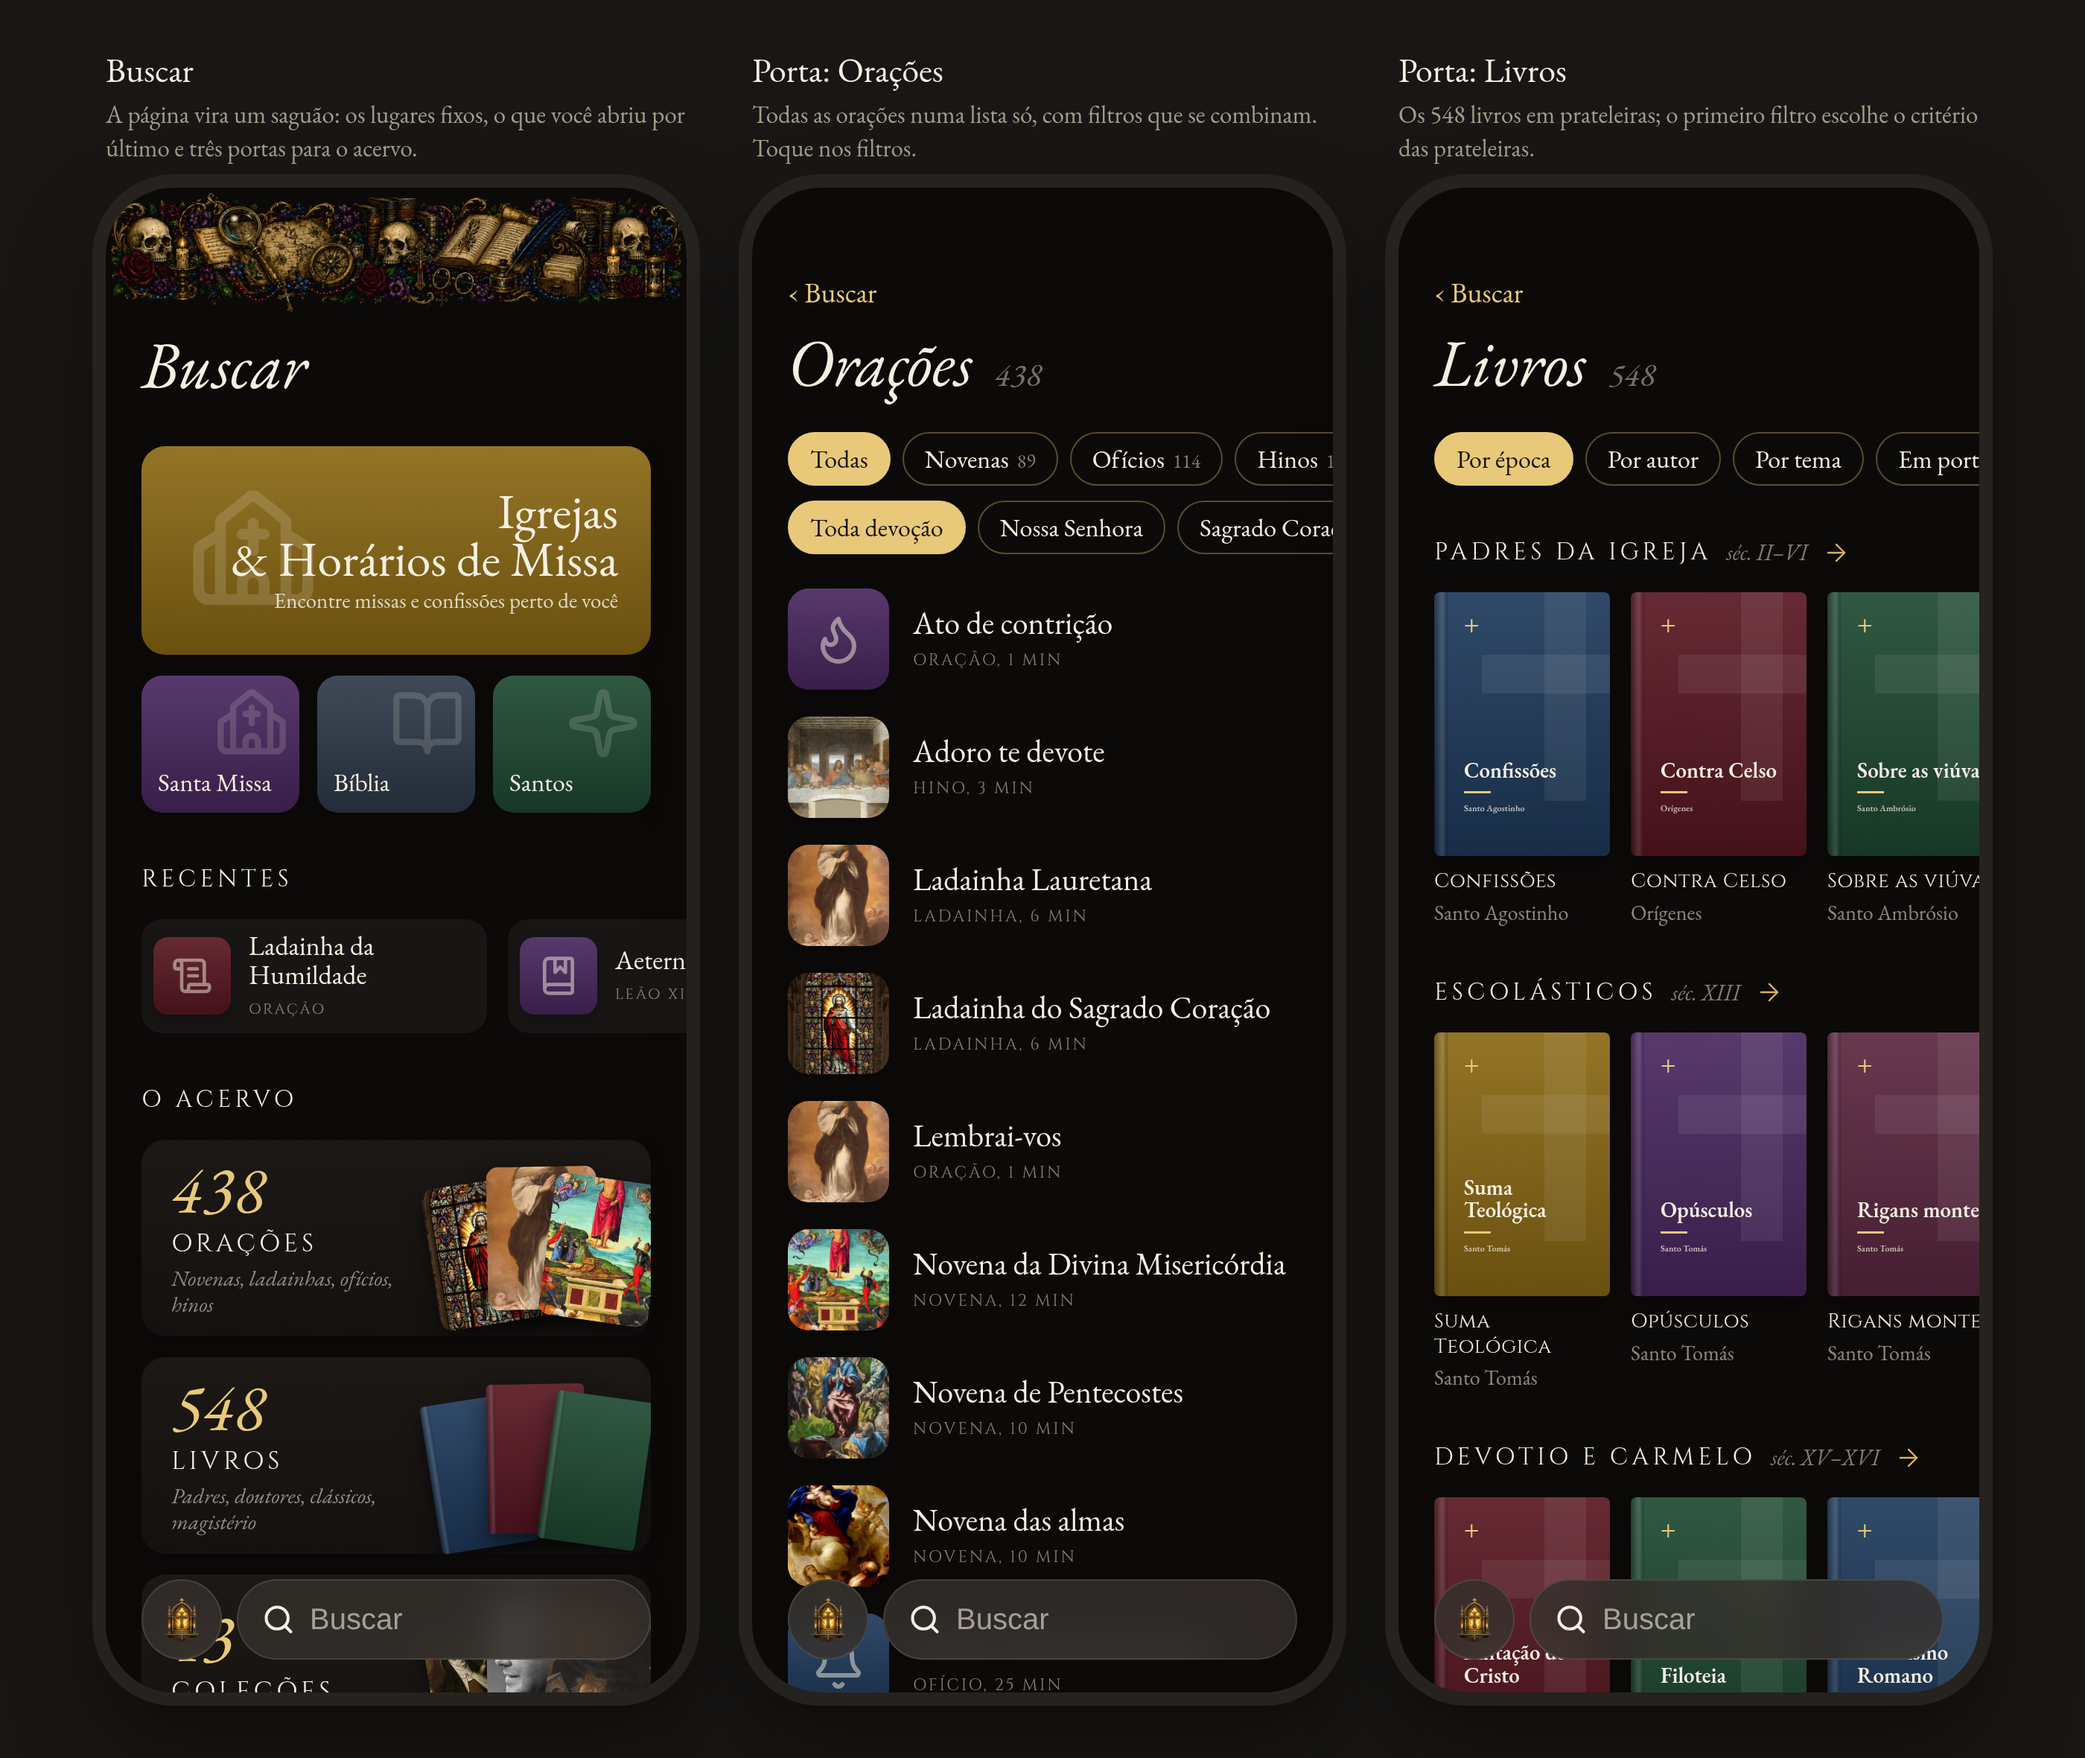
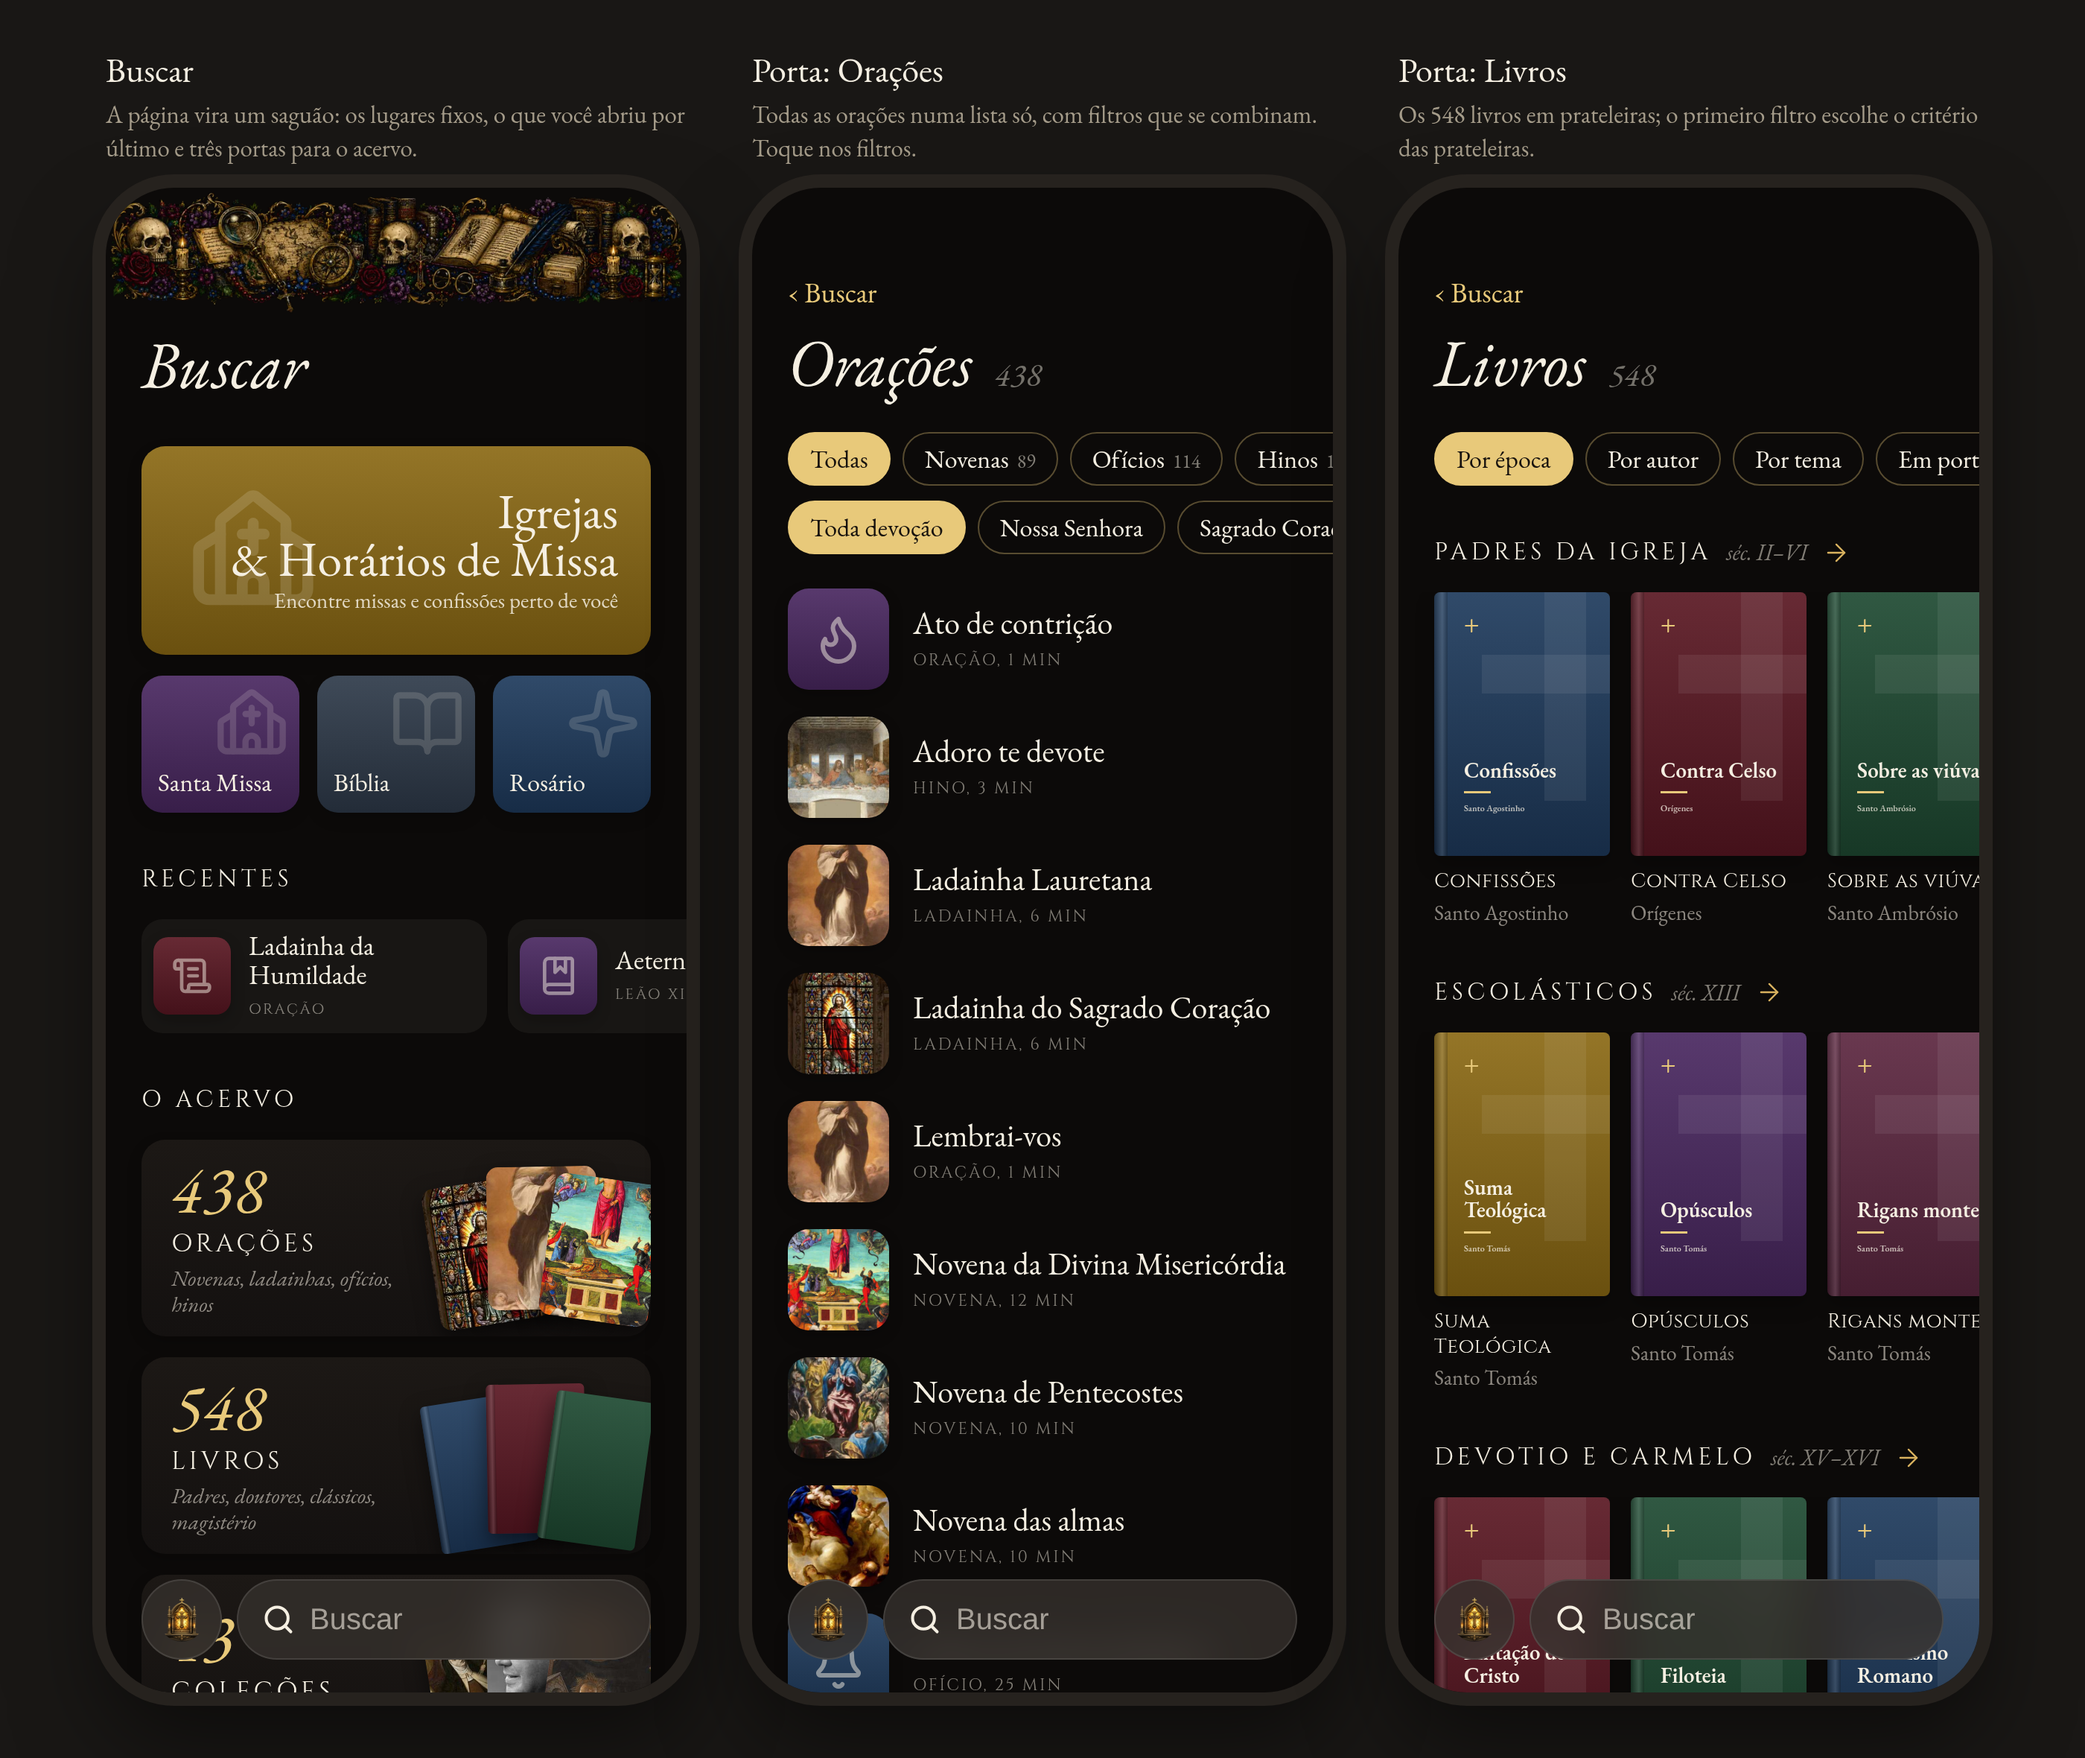
Search proposal: Rosary tile in place of Saints

Changed region(s): [[0.2175, 0.3712, 0.3107, 0.464]]

diff --git a/docs/plans/search-proposals.html b/docs/plans/search-proposals.html
@@ -107,7 +107,7 @@ h4 em{font-family:'EB Garamond',serif;font-style:italic;text-transform:none;lett
 .g3.below{margin-top:14px;margin-bottom:0}</style><main>
 <section><h3>Buscar</h3><p>A página vira um saguão: os lugares fixos, o que você abriu por último e três portas para o acervo.</p><div class="phone"><div class="scr"><div class="fl"></div><h2>Buscar</h2>
 <a class="banner" style="background:linear-gradient(#947527,#6a500f)"><i><svg viewBox="0 0 24 24" fill="none" stroke="currentColor" stroke-width="2" stroke-linecap="round" stroke-linejoin="round"><path d="M10 9h4"/><path d="M12 7v5"/><path d="M14 21v-3a2 2 0 0 0-4 0v3"/><path d="m18 9 3.52 2.147a1 1 0 0 1 .48.854V19a2 2 0 0 1-2 2H4a2 2 0 0 1-2-2v-6.999a1 1 0 0 1 .48-.854L6 9"/><path d="M6 21V7a1 1 0 0 1 .376-.782l5-3.999a1 1 0 0 1 1.249.001l5 4A1 1 0 0 1 18 7v14"/></svg></i><span>Igrejas<br>&amp; Horários de Missa<small>Encontre missas e confissões perto de você</small></span></a>
-<div class="g3 below"><a class="tile xs" style="background:linear-gradient(#58396d,#381e49)"><i><svg viewBox="0 0 24 24" fill="none" stroke="currentColor" stroke-width="2" stroke-linecap="round" stroke-linejoin="round"><path d="M10 9h4"/><path d="M12 7v5"/><path d="M14 21v-3a2 2 0 0 0-4 0v3"/><path d="m18 9 3.52 2.147a1 1 0 0 1 .48.854V19a2 2 0 0 1-2 2H4a2 2 0 0 1-2-2v-6.999a1 1 0 0 1 .48-.854L6 9"/><path d="M6 21V7a1 1 0 0 1 .376-.782l5-3.999a1 1 0 0 1 1.249.001l5 4A1 1 0 0 1 18 7v14"/></svg></i><span>Santa Missa</span></a><a class="tile xs" style="background:linear-gradient(#3f4a58,#232c38)"><i><svg viewBox="0 0 24 24" fill="none" stroke="currentColor" stroke-width="2" stroke-linecap="round" stroke-linejoin="round"><path d="M12 7v14"/><path d="M3 18a1 1 0 0 1-1-1V4a1 1 0 0 1 1-1h5a4 4 0 0 1 4 4 4 4 0 0 1 4-4h5a1 1 0 0 1 1 1v13a1 1 0 0 1-1 1h-6a3 3 0 0 0-3 3 3 3 0 0 0-3-3z"/></svg></i><span>Bíblia</span></a><a class="tile xs" style="background:linear-gradient(#305842,#173826)"><i><svg viewBox="0 0 24 24" fill="none" stroke="currentColor" stroke-width="2" stroke-linecap="round" stroke-linejoin="round"><path d="M11.017 2.814a1 1 0 0 1 1.966 0l1.051 5.558a2 2 0 0 0 1.594 1.594l5.558 1.051a1 1 0 0 1 0 1.966l-5.558 1.051a2 2 0 0 0-1.594 1.594l-1.051 5.558a1 1 0 0 1-1.966 0l-1.051-5.558a2 2 0 0 0-1.594-1.594l-5.558-1.051a1 1 0 0 1 0-1.966l5.558-1.051a2 2 0 0 0 1.594-1.594z"/></svg></i><span>Santos</span></a></div>
+<div class="g3 below"><a class="tile xs" style="background:linear-gradient(#58396d,#381e49)"><i><svg viewBox="0 0 24 24" fill="none" stroke="currentColor" stroke-width="2" stroke-linecap="round" stroke-linejoin="round"><path d="M10 9h4"/><path d="M12 7v5"/><path d="M14 21v-3a2 2 0 0 0-4 0v3"/><path d="m18 9 3.52 2.147a1 1 0 0 1 .48.854V19a2 2 0 0 1-2 2H4a2 2 0 0 1-2-2v-6.999a1 1 0 0 1 .48-.854L6 9"/><path d="M6 21V7a1 1 0 0 1 .376-.782l5-3.999a1 1 0 0 1 1.249.001l5 4A1 1 0 0 1 18 7v14"/></svg></i><span>Santa Missa</span></a><a class="tile xs" style="background:linear-gradient(#3f4a58,#232c38)"><i><svg viewBox="0 0 24 24" fill="none" stroke="currentColor" stroke-width="2" stroke-linecap="round" stroke-linejoin="round"><path d="M12 7v14"/><path d="M3 18a1 1 0 0 1-1-1V4a1 1 0 0 1 1-1h5a4 4 0 0 1 4 4 4 4 0 0 1 4-4h5a1 1 0 0 1 1 1v13a1 1 0 0 1-1 1h-6a3 3 0 0 0-3 3 3 3 0 0 0-3-3z"/></svg></i><span>Bíblia</span></a><a class="tile xs" style="background:linear-gradient(#304a69,#172c46)"><i><svg viewBox="0 0 24 24" fill="none" stroke="currentColor" stroke-width="2" stroke-linecap="round" stroke-linejoin="round"><path d="M11.017 2.814a1 1 0 0 1 1.966 0l1.051 5.558a2 2 0 0 0 1.594 1.594l5.558 1.051a1 1 0 0 1 0 1.966l-5.558 1.051a2 2 0 0 0-1.594 1.594l-1.051 5.558a1 1 0 0 1-1.966 0l-1.051-5.558a2 2 0 0 0-1.594-1.594l-5.558-1.051a1 1 0 0 1 0-1.966l5.558-1.051a2 2 0 0 0 1.594-1.594z"/></svg></i><span>Rosário</span></a></div>
 <h4>Recentes</h4>
 <div class="car"><a class="rc"><b class="th" style="background:linear-gradient(#672a34,#44111a)"><i><svg viewBox="0 0 24 24" fill="none" stroke="currentColor" stroke-width="2" stroke-linecap="round" stroke-linejoin="round"><path d="M15 12h-5"/><path d="M15 8h-5"/><path d="M19 17V5a2 2 0 0 0-2-2H4"/><path d="M8 21h12a2 2 0 0 0 2-2v-1a1 1 0 0 0-1-1H11a1 1 0 0 0-1 1v1a2 2 0 1 1-4 0V5a2 2 0 1 0-4 0v2a1 1 0 0 0 1 1h3"/></svg></i></b><span><strong>Ladainha da Humildade</strong><small>Oração</small></span></a><a class="rc"><b class="th" style="background:linear-gradient(#58396d,#381e49)"><i><svg viewBox="0 0 24 24" fill="none" stroke="currentColor" stroke-width="2" stroke-linecap="round" stroke-linejoin="round"><path d="M10 2v8l3-3 3 3V2"/><path d="M4 19.5v-15A2.5 2.5 0 0 1 6.5 2H19a1 1 0 0 1 1 1v18a1 1 0 0 1-1 1H6.5a1 1 0 0 1 0-5H20"/></svg></i></b><span><strong>Aeterni Patris</strong><small>Leão XIII</small></span></a><a class="rc"><b class="th" style="background:linear-gradient(#305842,#173826)"><i><svg viewBox="0 0 24 24" fill="none" stroke="currentColor" stroke-width="2" stroke-linecap="round" stroke-linejoin="round"><path d="M11.017 2.814a1 1 0 0 1 1.966 0l1.051 5.558a2 2 0 0 0 1.594 1.594l5.558 1.051a1 1 0 0 1 0 1.966l-5.558 1.051a2 2 0 0 0-1.594 1.594l-1.051 5.558a1 1 0 0 1-1.966 0l-1.051-5.558a2 2 0 0 0-1.594-1.594l-5.558-1.051a1 1 0 0 1 0-1.966l5.558-1.051a2 2 0 0 0 1.594-1.594z"/></svg></i></b><span><strong>Santa Mônica</strong><small>Santa</small></span></a></div>
 <h4>O acervo</h4>
